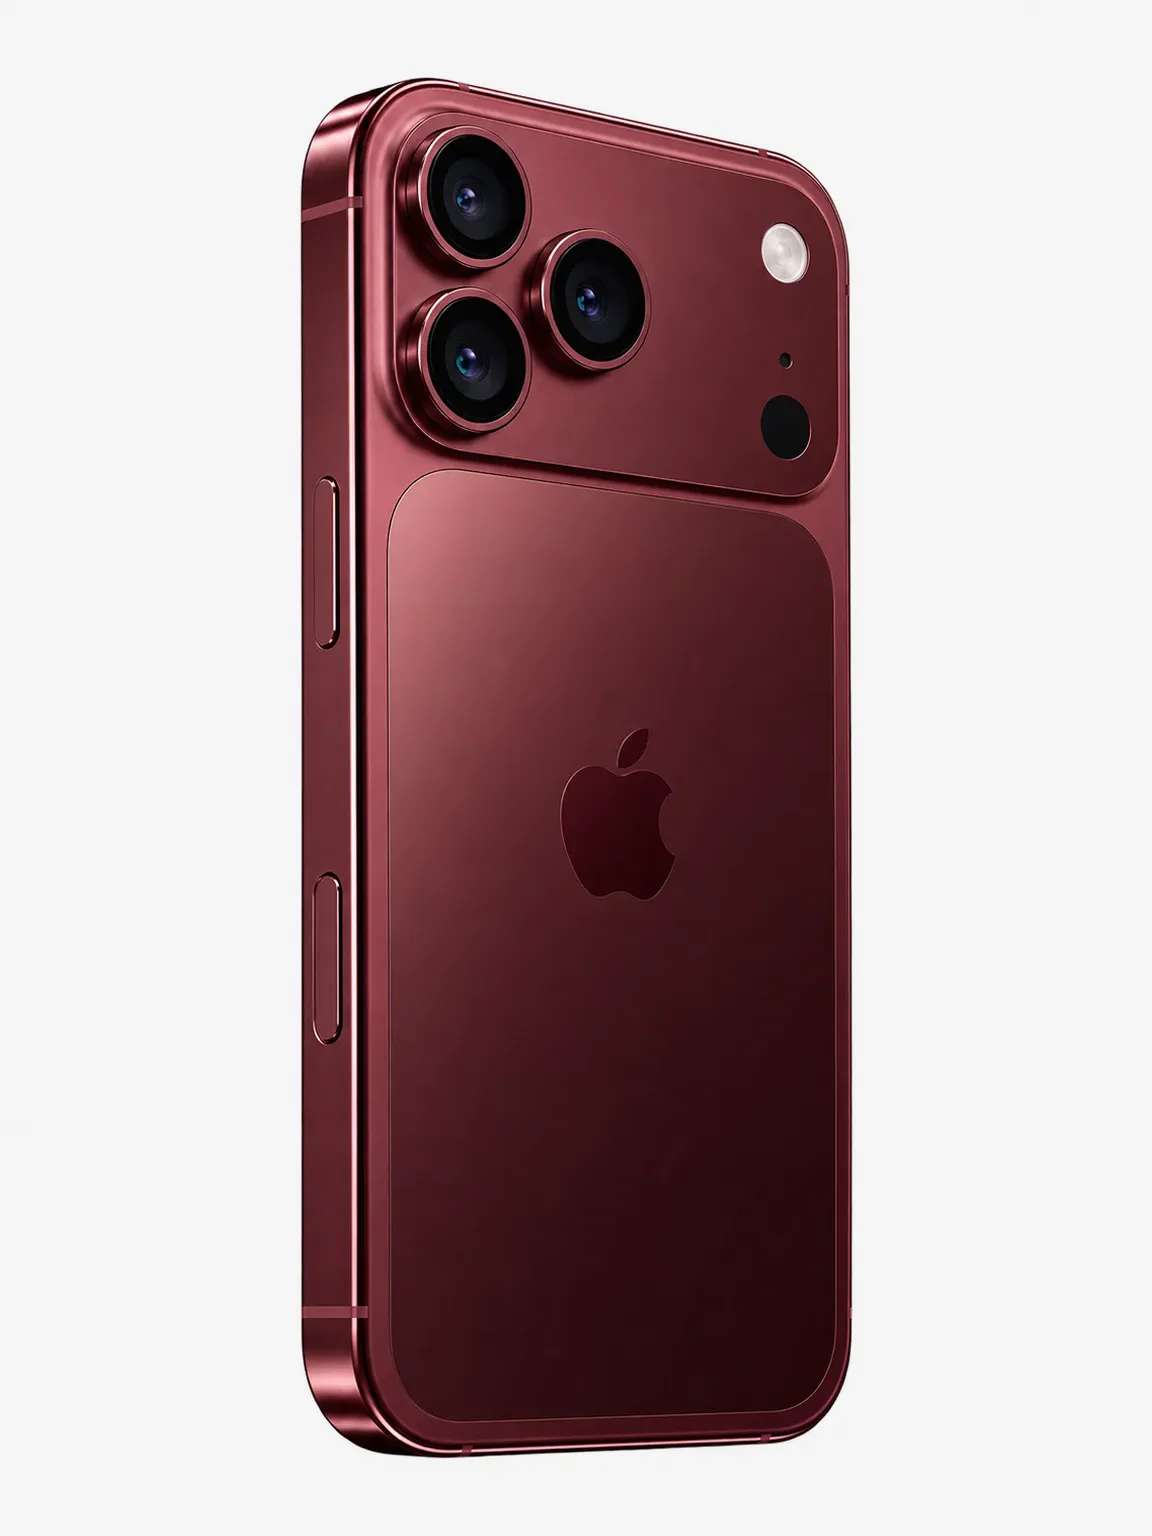
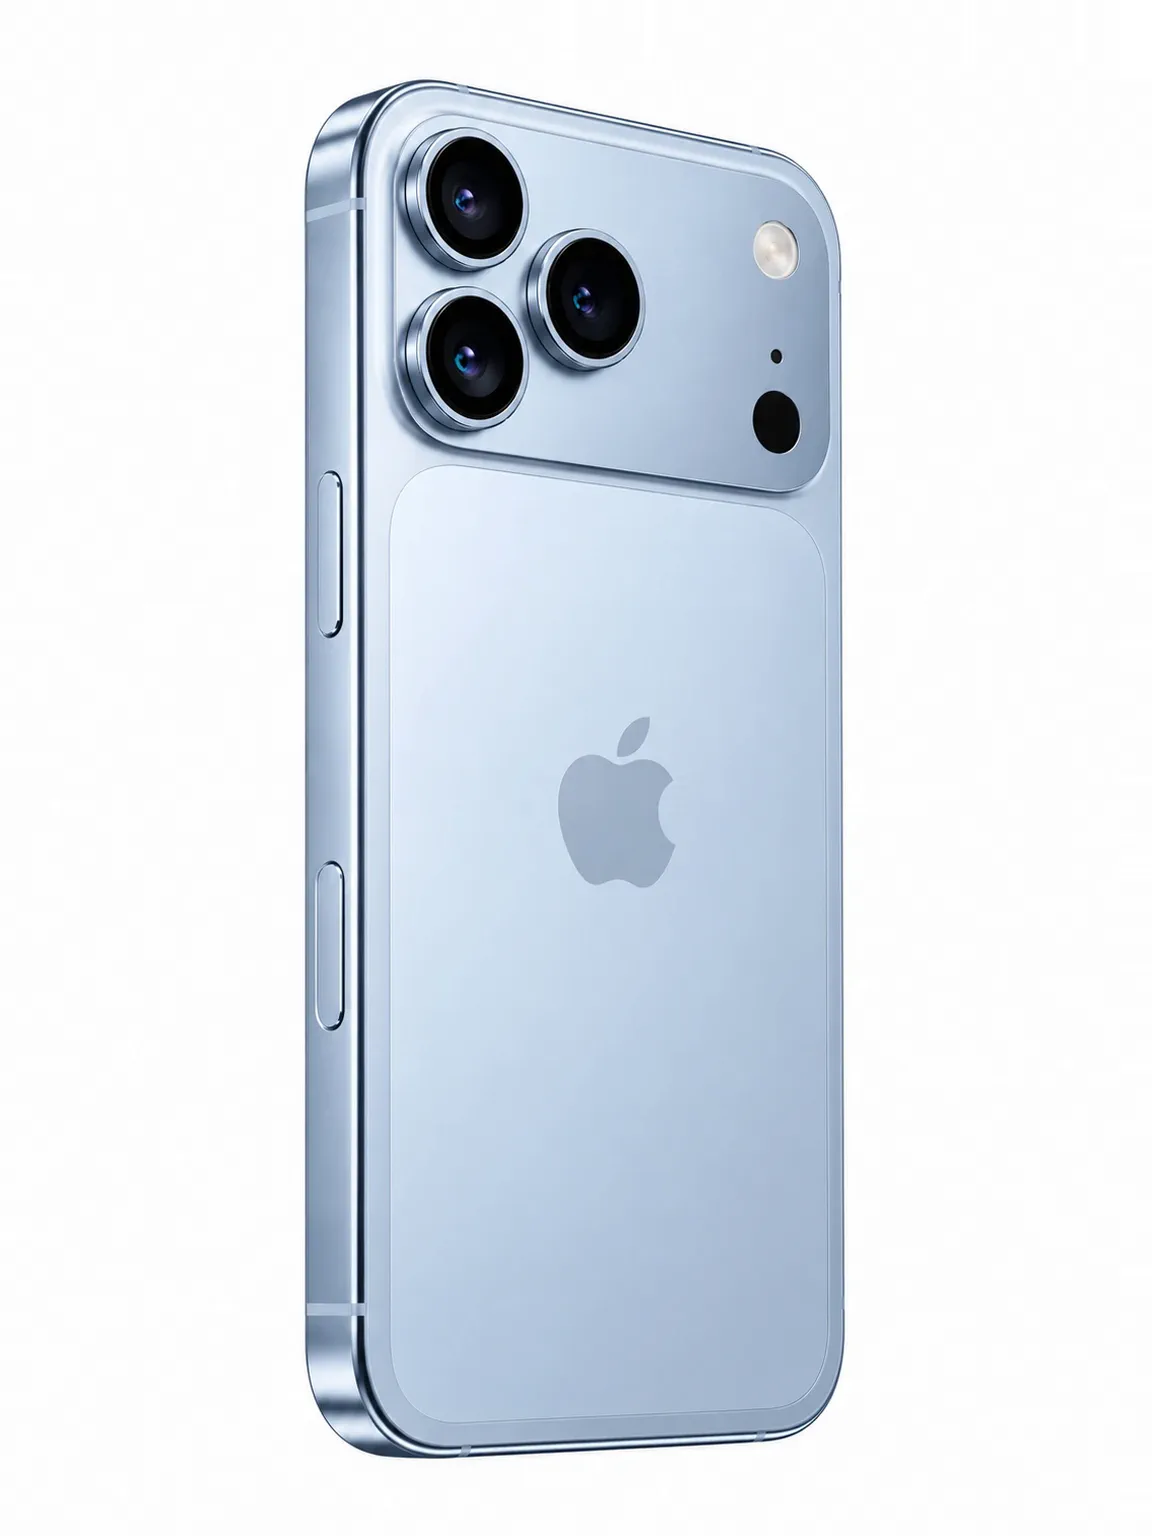
iPhone 18 Pro Max: תמונה משלו בצבע קרחון, כדי שלא ייראה כמו ה-Pro
אופק ביקש צבע אחר לכל דגם. בורדו נשאר ל-18 Pro, וקרחון ל-18 Pro Max. הגרסה הראשונה שנשלחה
הייתה כחול כהה, צבע שאין לדגם: לפי אפל הצבעים הם שחור, כסוף, קרחון ובורדו, והקרחון בתמונה
הרשמית הוא תכלת בהיר. הגרסה הזו נבדקה מולה. alt: "בצבע קרחון, הגב של המכשיר".

diff --git a/prototype/phones/iphone-18-pro-max/index.html b/prototype/phones/iphone-18-pro-max/index.html
@@ -1659,7 +1659,7 @@ height="0" width="0" style="display:none;visibility:hidden"></iframe></noscript>
 <section class="prob" id="buy" style="--nc:var(--teal)" aria-labelledby="h-buy">
   <div class="wrap row">
     <figure class="fig">
-      <img class="devimg" src="/phones/img/iphone-18-pro-max-1152.webp" srcset="/phones/img/iphone-18-pro-max-288.webp 288w, /phones/img/iphone-18-pro-max-576.webp 576w, /phones/img/iphone-18-pro-max-1152.webp 1152w" sizes="(max-width:900px) 280px, (max-width:1400px) 41vw, 548px" width="1152" height="1536" alt="iPhone 18 Pro Max, בצבע בורדו, הגב של המכשיר" loading="lazy" decoding="async">
+      <img class="devimg" src="/phones/img/iphone-18-pro-max-1152.webp" srcset="/phones/img/iphone-18-pro-max-288.webp 288w, /phones/img/iphone-18-pro-max-576.webp 576w, /phones/img/iphone-18-pro-max-1152.webp 1152w" sizes="(max-width:900px) 280px, (max-width:1400px) 41vw, 548px" width="1152" height="1536" alt="iPhone 18 Pro Max, בצבע קרחון, הגב של המכשיר" loading="lazy" decoding="async">
     </figure>
     <div class="txt">
       <h2 id="h-buy">מחיר, מלאי ואחריות</h2>

diff --git a/.claude/tools/gen-device-photos.js b/.claude/tools/gen-device-photos.js
@@ -253,9 +253,9 @@ var SHOT = {
   'iphone-17': 'הגב של המכשיר',
   'iphone-17-pro': 'שלושה צבעים, הגב של המכשירים',
   'iphone-17-pro-max': 'שלושה צבעים, הגב של המכשירים',
-  /* שני הדגמים חולקים תמונה אחת, כמו ב-17: מבחוץ ההבדל הוא רק בגודל */
+  /* תמונה לכל דגם, בשני צבעים של אפל, כדי שלא ייראו כאותו מכשיר (אופק, 25.9.2026) */
   'iphone-18-pro': 'בצבע בורדו, הגב של המכשיר',
-  'iphone-18-pro-max': 'בצבע בורדו, הגב של המכשיר'
+  'iphone-18-pro-max': 'בצבע קרחון, הגב של המכשיר'
 };
 
 var bySlug = {};
